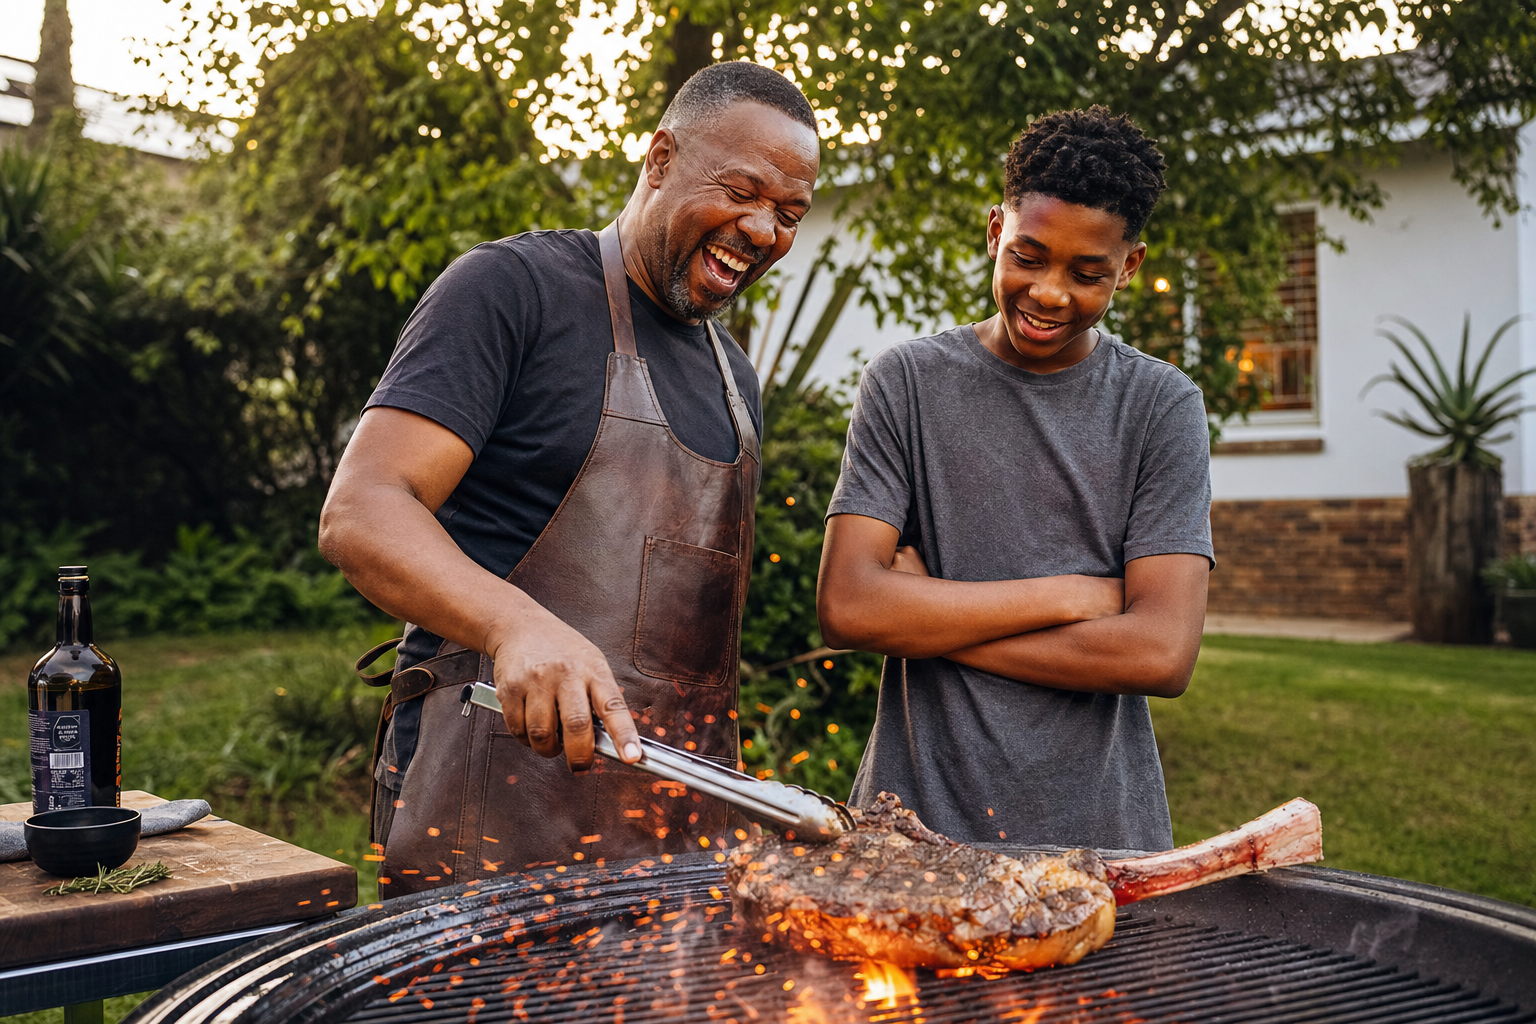
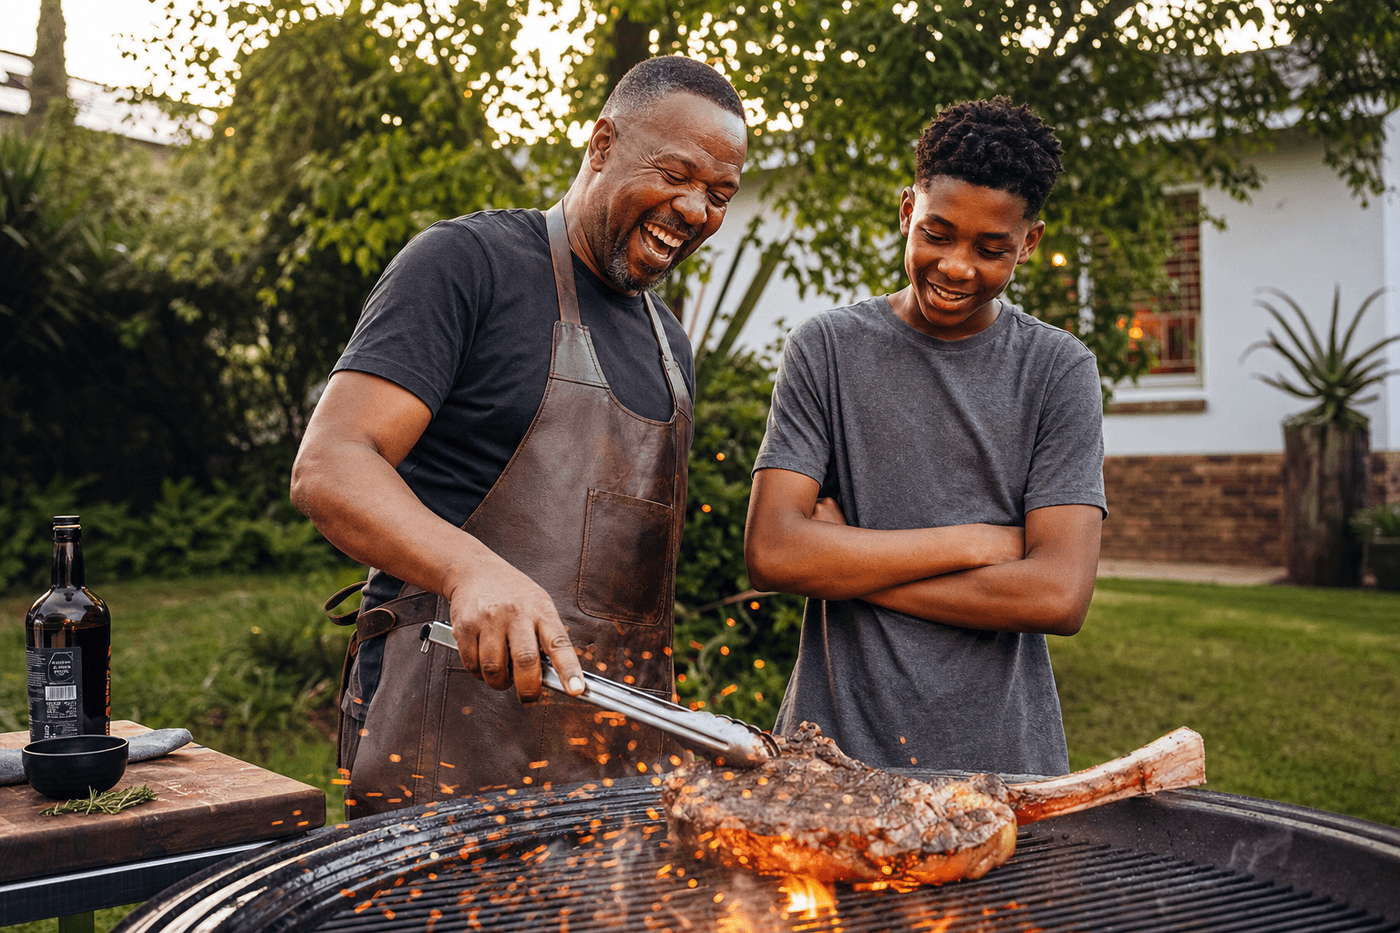
perf: shrink hero images 71% + lazy-load all page routes
- Recompress 6 hero PNGs in place (1400px, palette): ~16.4MB -> ~4.7MB total.
- Convert the 16 War Room pages to React.lazy + Suspense so the initial JS
  bundle drops from ~877KB to ~279KB (68% smaller); each page loads on demand.

diff --git a/war-room/client/src/App.tsx b/war-room/client/src/App.tsx
@@ -6,24 +6,27 @@ import { Toaster } from "@/components/ui/toaster";
 import { TooltipProvider } from "@/components/ui/tooltip";
 import { PrivacyProvider } from "@/contexts/PrivacyContext";
 import { AnalyticsStrip } from "@/components/AnalyticsStrip";
-import ContentQueue from "@/pages/ContentQueue";
-import ContentCalendar from "@/pages/ContentCalendar";
-import GenerateContent from "@/pages/GenerateContent";
-import Analytics from "@/pages/Analytics";
-import AgentNetwork from "@/pages/AgentNetwork";
-import FacebookAds from "@/pages/FacebookAds";
-import DeliveryTeam from "@/pages/DeliveryTeam";
-import Communications from "@/pages/Communications";
-import ShopifyStore from "@/pages/ShopifyStore";
-import GlobalMarkets from "@/pages/GlobalMarkets";
-import SuperAgents from "@/pages/SuperAgents";
-import Payments from "@/pages/Payments";
-import RevenueEngine from "@/pages/RevenueEngine";
-import NalediAI from "@/pages/NalediAI";
-import AICredits from "@/pages/AICredits";
 import NotFound from "@/pages/not-found";
-import { useState } from "react";
+import { useState, lazy, Suspense } from "react";
 import { LayoutGrid, Calendar, Sparkles, TrendingUp, ShoppingBag, CheckSquare, Bot, Megaphone, Truck, MessageSquare, Globe, Cpu, CreditCard, MessageCircle, Coins } from "lucide-react";
+
+// Route-level code-splitting: each page ships as its own chunk and only loads
+// when its tab is opened, keeping the initial bundle small.
+const ContentQueue = lazy(() => import("@/pages/ContentQueue"));
+const ContentCalendar = lazy(() => import("@/pages/ContentCalendar"));
+const GenerateContent = lazy(() => import("@/pages/GenerateContent"));
+const Analytics = lazy(() => import("@/pages/Analytics"));
+const AgentNetwork = lazy(() => import("@/pages/AgentNetwork"));
+const FacebookAds = lazy(() => import("@/pages/FacebookAds"));
+const DeliveryTeam = lazy(() => import("@/pages/DeliveryTeam"));
+const Communications = lazy(() => import("@/pages/Communications"));
+const ShopifyStore = lazy(() => import("@/pages/ShopifyStore"));
+const GlobalMarkets = lazy(() => import("@/pages/GlobalMarkets"));
+const SuperAgents = lazy(() => import("@/pages/SuperAgents"));
+const Payments = lazy(() => import("@/pages/Payments"));
+const RevenueEngine = lazy(() => import("@/pages/RevenueEngine"));
+const NalediAI = lazy(() => import("@/pages/NalediAI"));
+const AICredits = lazy(() => import("@/pages/AICredits"));
 
 const TABS = [
   { id: "queue", label: "Queue", icon: LayoutGrid },
@@ -138,6 +141,7 @@ function MainLayout() {
 
       {/* Main content */}
       <main className="max-w-screen-xl mx-auto px-4 py-6">
+        <Suspense fallback={<ComingSoonPage title="Loading…" />}>
         {activeTab === "queue" && <ContentQueue />}
         {activeTab === "calendar" && <ContentCalendar />}
         {activeTab === "generate" && <GenerateContent />}
@@ -154,6 +158,7 @@ function MainLayout() {
         {activeTab === "payments" && <Payments />}
         {activeTab === "revenue" && <RevenueEngine />}
         {activeTab === "ai-credits" && <AICredits />}
+        </Suspense>
       </main>
     </div>
   );
